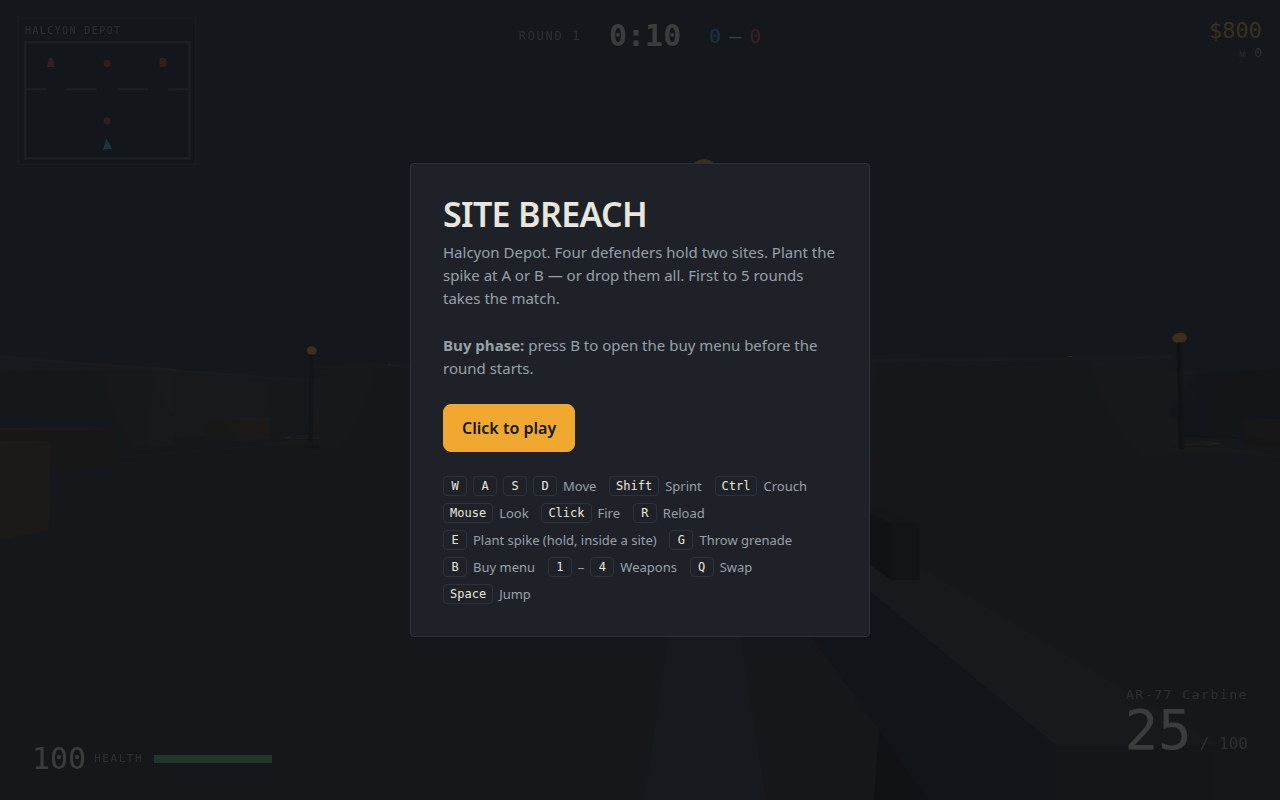
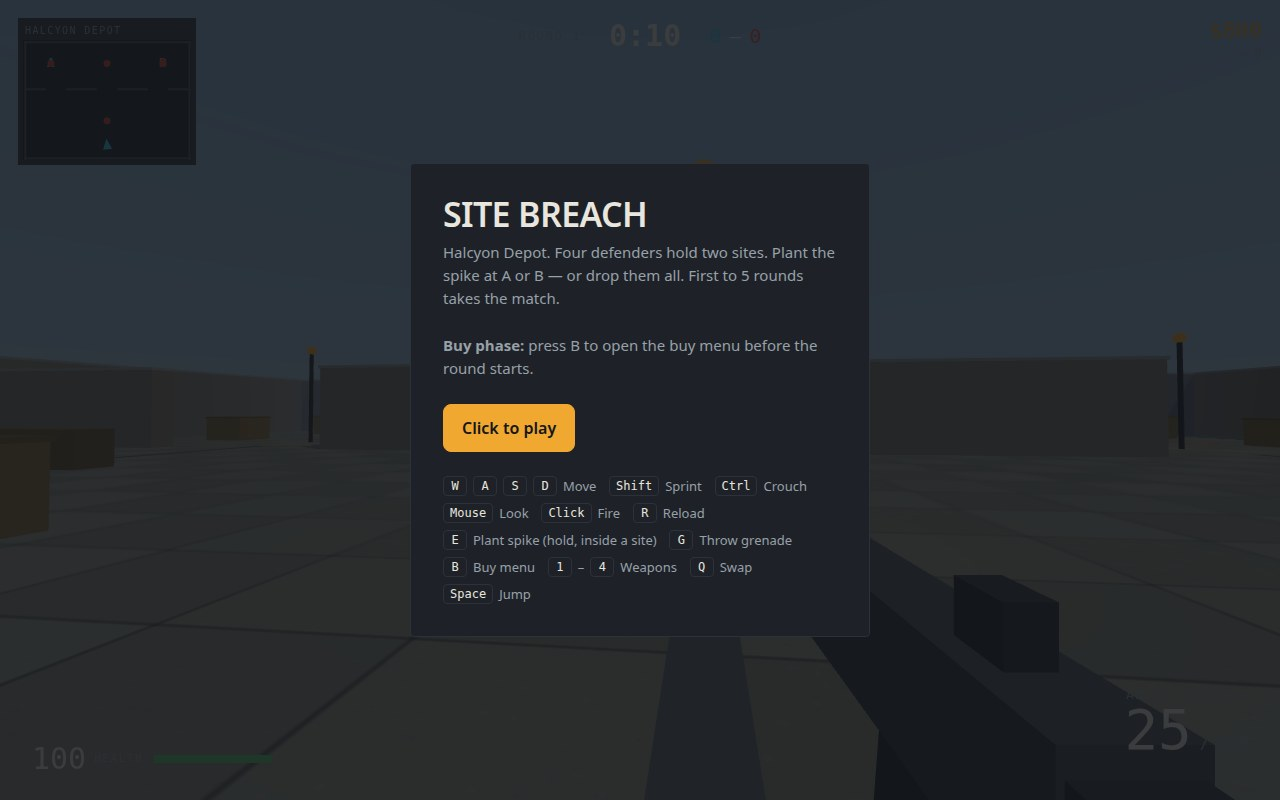
Visual polish: bright day sky, tiled ground, humanoid bots, detailed rifle

diff --git a/game/src/main.js b/game/src/main.js
@@ -30,11 +30,32 @@ document.getElementById('game').appendChild(renderer.domElement);
 const scene = new THREE.Scene();
 scene.background = new THREE.Color(PALETTE.sky);
 scene.fog = new THREE.Fog(PALETTE.fog, 26, 70);
+// Sky dome: a vertical day gradient generated at runtime (no external asset).
+{
+  const c = document.createElement('canvas');
+  c.width = 4;
+  c.height = 256;
+  const g = c.getContext('2d');
+  const grad = g.createLinearGradient(0, 0, 0, 256);
+  grad.addColorStop(0, '#5f9fd4');
+  grad.addColorStop(0.55, '#a8c8e0');
+  grad.addColorStop(0.78, '#e8dcc0');
+  grad.addColorStop(1, '#d8c8a8');
+  g.fillStyle = grad;
+  g.fillRect(0, 0, 4, 256);
+  const tex = new THREE.CanvasTexture(c);
+  tex.colorSpace = THREE.SRGBColorSpace;
+  const sky = new THREE.Mesh(
+    new THREE.SphereGeometry(120, 24, 16),
+    new THREE.MeshBasicMaterial({ map: tex, side: THREE.BackSide, fog: false }),
+  );
+  scene.add(sky);
+}
 const camera = new THREE.PerspectiveCamera(74, window.innerWidth / window.innerHeight, 0.05, 160);
 scene.add(camera);
 
-scene.add(new THREE.HemisphereLight(0x8fa3c0, 0x2a2419, 1.05));
-const sun = new THREE.DirectionalLight(0xffe0b0, 1.6);
+scene.add(new THREE.HemisphereLight(0xcfe4f5, 0x9a8f7a, 1.9));
+const sun = new THREE.DirectionalLight(0xfff1d6, 2.4);
 sun.position.set(18, 30, 12);
 sun.castShadow = true;
 sun.shadow.mapSize.set(1024, 1024);
@@ -79,24 +100,61 @@ let buyOpen = false;
 let shake = 0;
 let flash = 0;
 
-// ---- Viewmodel: a simple rifle the player carries ----
+// ---- Viewmodel: a detailed rifle the player carries ----
 const viewGun = new THREE.Group();
 {
-  const dark = new THREE.MeshLambertMaterial({ color: 0x22262c });
-  const mid = new THREE.MeshLambertMaterial({ color: 0x3a414b });
+  const dark = new THREE.MeshLambertMaterial({ color: 0x2c3138 });
+  const mid = new THREE.MeshLambertMaterial({ color: 0x4a525e });
+  const steel = new THREE.MeshLambertMaterial({ color: 0x6b7683 });
+  const amber = new THREE.MeshBasicMaterial({ color: PALETTE.accent });
   const receiver = new THREE.Mesh(new THREE.BoxGeometry(0.09, 0.13, 0.5), mid);
   viewGun.add(receiver);
-  const barrel = new THREE.Mesh(new THREE.CylinderGeometry(0.025, 0.025, 0.34, 8), dark);
+  // Handguard with ridges.
+  const guard = new THREE.Mesh(new THREE.BoxGeometry(0.1, 0.11, 0.3), dark);
+  guard.position.set(0, 0.01, -0.38);
+  viewGun.add(guard);
+  for (let i = 0; i < 3; i++) {
+    const ridge = new THREE.Mesh(new THREE.BoxGeometry(0.104, 0.02, 0.03), steel);
+    ridge.position.set(0, 0.07, -0.28 - i * 0.1);
+    viewGun.add(ridge);
+  }
+  const barrel = new THREE.Mesh(new THREE.CylinderGeometry(0.022, 0.022, 0.22, 8), steel);
   barrel.rotation.x = Math.PI / 2;
-  barrel.position.set(0, 0.02, -0.38);
+  barrel.position.set(0, 0.02, -0.62);
   viewGun.add(barrel);
-  const sight = new THREE.Mesh(new THREE.BoxGeometry(0.03, 0.06, 0.08), dark);
-  sight.position.set(0, 0.1, -0.05);
-  viewGun.add(sight);
+  const brake = new THREE.Mesh(new THREE.BoxGeometry(0.05, 0.05, 0.09), dark);
+  brake.position.set(0, 0.02, -0.76);
+  viewGun.add(brake);
+  // Front sight post with a glowing amber fibre tip.
+  const post = new THREE.Mesh(new THREE.BoxGeometry(0.02, 0.07, 0.02), dark);
+  post.position.set(0, 0.09, -0.5);
+  viewGun.add(post);
+  const fibre = new THREE.Mesh(new THREE.BoxGeometry(0.014, 0.014, 0.05), amber);
+  fibre.position.set(0, 0.13, -0.5);
+  viewGun.add(fibre);
+  // Rear sight.
+  const rear = new THREE.Mesh(new THREE.BoxGeometry(0.04, 0.05, 0.06), dark);
+  rear.position.set(0, 0.09, 0.14);
+  viewGun.add(rear);
+  // Stock, grip, trigger guard, magazine.
+  const stock = new THREE.Mesh(new THREE.BoxGeometry(0.08, 0.11, 0.22), dark);
+  stock.position.set(0, -0.01, 0.34);
+  viewGun.add(stock);
+  const grip = new THREE.Mesh(new THREE.BoxGeometry(0.06, 0.12, 0.08), dark);
+  grip.position.set(0, -0.11, 0.12);
+  grip.rotation.x = 0.3;
+  viewGun.add(grip);
+  const trigger = new THREE.Mesh(new THREE.BoxGeometry(0.02, 0.04, 0.12), steel);
+  trigger.position.set(0, -0.09, 0.16);
+  viewGun.add(trigger);
   const mag = new THREE.Mesh(new THREE.BoxGeometry(0.07, 0.16, 0.1), dark);
   mag.position.set(0, -0.12, 0.05);
   mag.rotation.x = 0.15;
   viewGun.add(mag);
+  // Charging handle on the right side.
+  const handle = new THREE.Mesh(new THREE.BoxGeometry(0.02, 0.03, 0.06), steel);
+  handle.position.set(0.055, 0.03, 0.05);
+  viewGun.add(handle);
   viewGun.position.set(0.28, -0.26, -0.55);
   camera.add(viewGun);
 }

diff --git a/game/src/world.js b/game/src/world.js
@@ -5,7 +5,7 @@
 // every edge was checked to run through open ground.
 import * as THREE from 'three';
 import { PALETTE } from './palette.js';
-import { segmentHitsRect } from './util.js';
+import { segmentHitsRect, mulberry32 } from './util.js';
 
 // Each collider is an axis-aligned box: centre (x, z), half extents (hw, hd),
 // height h. Walls taller than 1.5 m also block line of sight.
@@ -168,7 +168,46 @@ export function createWorld(scene) {
   const shootables = [];
   const lambert = (color) => new THREE.MeshLambertMaterial({ color });
 
-  const ground = new THREE.Mesh(new THREE.PlaneGeometry(66, 46), lambert(PALETTE.ground));
+  // Ground: a concrete tile texture generated at runtime (no external asset).
+  // 512 px canvas = 4x4 tiles; repeated so each tile is ~2 m on the floor.
+  const groundTex = (() => {
+    const c = document.createElement('canvas');
+    c.width = 512;
+    c.height = 512;
+    const g = c.getContext('2d');
+    g.fillStyle = '#8a8d84';
+    g.fillRect(0, 0, 512, 512);
+    const shades = ['#8f9289', '#85887f', '#93968d', '#82857c'];
+    for (let ty = 0; ty < 4; ty++) {
+      for (let tx = 0; tx < 4; tx++) {
+        g.fillStyle = shades[(tx + ty * 3) % 4];
+        g.fillRect(tx * 128 + 2, ty * 128 + 2, 124, 124);
+      }
+    }
+    // Speckles for a worn-concrete read (seeded, so every load looks the same).
+    const rnd = mulberry32(7);
+    for (let i = 0; i < 900; i++) {
+      g.fillStyle = rnd() < 0.5 ? 'rgba(0,0,0,0.06)' : 'rgba(255,255,255,0.05)';
+      g.fillRect(rnd() * 512, rnd() * 512, 2, 2);
+    }
+    // Tile seams.
+    g.strokeStyle = 'rgba(40,44,48,0.55)';
+    g.lineWidth = 3;
+    for (let i = 0; i <= 4; i++) {
+      g.beginPath(); g.moveTo(i * 128, 0); g.lineTo(i * 128, 512); g.stroke();
+      g.beginPath(); g.moveTo(0, i * 128); g.lineTo(512, i * 128); g.stroke();
+    }
+    const tex = new THREE.CanvasTexture(c);
+    tex.wrapS = THREE.RepeatWrapping;
+    tex.wrapT = THREE.RepeatWrapping;
+    tex.repeat.set(8, 6);
+    tex.colorSpace = THREE.SRGBColorSpace;
+    return tex;
+  })();
+  const ground = new THREE.Mesh(
+    new THREE.PlaneGeometry(66, 46),
+    new THREE.MeshLambertMaterial({ map: groundTex }),
+  );
   ground.rotation.x = -Math.PI / 2;
   ground.receiveShadow = true;
   scene.add(ground);
@@ -186,13 +225,18 @@ export function createWorld(scene) {
   const wallMat = lambert(PALETTE.wall);
   const wallDarkMat = lambert(PALETTE.wallDark);
   const wallTopMat = lambert(PALETTE.wallTop);
+  // Per-area tones: the north (site) half reads cool steel blue, the south
+  // (spawn) half warm sand — the map reads at a glance without moving a collider.
+  const wallNorthMat = lambert(0x7d8aa0);
+  const wallSouthMat = lambert(0x9a938a);
   const crateMat = lambert(PALETTE.crate);
   const crateDarkMat = lambert(PALETTE.crateDark);
   for (const c of COLLIDERS) {
     const isLow = c.h <= 1.2 && c.hw + c.hd <= 4 && !(c.hw >= 4 || c.hd >= 4);
     const isCrate = c.h === 1.2 && c.hw <= 1.2 && c.hd <= 1.2;
     const geo = new THREE.BoxGeometry(c.hw * 2, c.h, c.hd * 2);
-    const mesh = new THREE.Mesh(geo, isCrate ? crateMat : isLow ? crateDarkMat : wallMat);
+    const mat = isCrate ? crateMat : isLow ? crateDarkMat : (c.z < -4 ? wallNorthMat : wallSouthMat);
+    const mesh = new THREE.Mesh(geo, mat);
     mesh.position.set(c.x, c.h / 2, c.z);
     mesh.castShadow = c.h > 1.5;
     mesh.receiveShadow = true;
@@ -202,6 +246,11 @@ export function createWorld(scene) {
       const cap = new THREE.Mesh(new THREE.BoxGeometry(c.hw * 2 + 0.12, 0.12, c.hd * 2 + 0.12), wallTopMat);
       cap.position.set(c.x, c.h + 0.06, c.z);
       scene.add(cap);
+    } else if (isCrate) {
+      // Crates get a darker lid so they read as containers, not grey blocks.
+      const lid = new THREE.Mesh(new THREE.BoxGeometry(c.hw * 2 + 0.08, 0.08, c.hd * 2 + 0.08), crateDarkMat);
+      lid.position.set(c.x, c.h + 0.04, c.z);
+      scene.add(lid);
     }
   }
 

diff --git a/game/src/bots.js b/game/src/bots.js
@@ -27,14 +27,59 @@ function makeBotMesh(scene, name) {
   const group = new THREE.Group();
   const bodyMat = new THREE.MeshLambertMaterial({ color: PALETTE.enemy });
   const darkMat = new THREE.MeshLambertMaterial({ color: PALETTE.enemyDark });
-  const body = new THREE.Mesh(new THREE.CapsuleGeometry(0.32, 0.8, 6, 12), bodyMat);
-  body.position.y = 1.0;
+  const bootMat = new THREE.MeshLambertMaterial({ color: 0x2a1e16 });
+  // Torso: a shorter red capsule — the vest of the figure (hit mesh, part 'body').
+  const body = new THREE.Mesh(new THREE.CapsuleGeometry(0.30, 0.55, 6, 12), bodyMat);
+  body.position.y = 1.15;
   body.castShadow = true;
   group.add(body);
+  // Chest plate (dark vest front) and belt.
+  const plate = new THREE.Mesh(new THREE.BoxGeometry(0.46, 0.38, 0.08), darkMat);
+  plate.position.set(0, 1.22, 0.28);
+  group.add(plate);
+  const belt = new THREE.Mesh(new THREE.BoxGeometry(0.5, 0.1, 0.34), darkMat);
+  belt.position.set(0, 0.82, 0);
+  group.add(belt);
+  // Legs: two dark trouser legs. They are hit meshes too (part 'body') and
+  // meet at the centre line, so low shots behave as they did against the old
+  // full-length capsule.
+  const legGeo = new THREE.BoxGeometry(0.22, 0.8, 0.2);
+  const legL = new THREE.Mesh(legGeo, darkMat);
+  legL.position.set(-0.11, 0.4, 0);
+  legL.castShadow = true;
+  group.add(legL);
+  const legR = new THREE.Mesh(legGeo, darkMat);
+  legR.position.set(0.11, 0.4, 0);
+  legR.castShadow = true;
+  group.add(legR);
+  const bootGeo = new THREE.BoxGeometry(0.2, 0.1, 0.3);
+  const bootL = new THREE.Mesh(bootGeo, bootMat);
+  bootL.position.set(-0.11, 0.05, 0.03);
+  group.add(bootL);
+  const bootR = new THREE.Mesh(bootGeo, bootMat);
+  bootR.position.set(0.11, 0.05, 0.03);
+  group.add(bootR);
+  // Arms: red sleeves angled slightly forward; the right one holds the gun.
+  const armGeo = new THREE.BoxGeometry(0.13, 0.6, 0.16);
+  const armL = new THREE.Mesh(armGeo, bodyMat);
+  armL.position.set(-0.38, 1.08, 0.05);
+  armL.rotation.x = -0.25;
+  group.add(armL);
+  const armR = new THREE.Mesh(armGeo, bodyMat);
+  armR.position.set(0.38, 1.08, 0.12);
+  armR.rotation.x = -0.55;
+  group.add(armR);
+  // Head: dark face sphere, red helmet dome, amber visor.
   const head = new THREE.Mesh(new THREE.SphereGeometry(0.26, 14, 10), darkMat);
   head.position.y = 1.66;
   head.castShadow = true;
   group.add(head);
+  const helmet = new THREE.Mesh(
+    new THREE.SphereGeometry(0.28, 14, 10, 0, Math.PI * 2, 0, Math.PI / 2),
+    bodyMat,
+  );
+  helmet.position.y = 1.68;
+  group.add(helmet);
   const visor = new THREE.Mesh(new THREE.BoxGeometry(0.3, 0.09, 0.1), new THREE.MeshBasicMaterial({ color: PALETTE.accent }));
   visor.position.set(0, 1.68, 0.22);
   group.add(visor);
@@ -48,7 +93,7 @@ function makeBotMesh(scene, name) {
   padR.position.x = 0.36;
   group.add(padR);
   scene.add(group);
-  return { group, body, head, gun };
+  return { group, body, head, gun, legL, legR };
 }
 
 export function createBots(scene, seed = 1) {
@@ -87,7 +132,9 @@ export function createBots(scene, seed = 1) {
     };
     mesh.body.userData = { bot, part: 'body' };
     mesh.head.userData = { bot, part: 'head' };
-    bot.hitMeshes = [mesh.body, mesh.head];
+    mesh.legL.userData = { bot, part: 'body' };
+    mesh.legR.userData = { bot, part: 'body' };
+    bot.hitMeshes = [mesh.body, mesh.head, mesh.legL, mesh.legR];
     bot.mesh.group.position.set(home[0], 0, home[1]);
     bots.push(bot);
   }

diff --git a/game/src/palette.js b/game/src/palette.js
@@ -1,21 +1,21 @@
-// Palette: one chosen look for the whole game — dusk depot, sodium lamps, cold steel.
+// Palette: one chosen look for the whole game — bright day depot, sodium lamps, cold steel.
 // Every colour in the game comes from here, so the scene reads at a glance.
 export const PALETTE = {
-  sky: 0x1a2230,
-  fog: 0x1a2230,
-  ground: 0x2a2f36,
-  groundLine: 0x232830,
-  wall: 0x4a525e,
-  wallDark: 0x353c46,
-  wallTop: 0x5d6673,
-  crate: 0x6b5a34,
-  crateDark: 0x54452a,
+  sky: 0x9ec4e2,
+  fog: 0xb9cfe0,
+  ground: 0x8a8d84,
+  groundLine: 0x5a6068,
+  wall: 0x8b96a3,
+  wallDark: 0x6b7683,
+  wallTop: 0xb4bec8,
+  crate: 0x9a7d44,
+  crateDark: 0x7a6435,
   accent: 0xf0a830, // sodium amber — lamps, site markers, HUD accent
   accentDim: 0x8a6420,
   siteA: 0x35c4e8, // cyan hologram for Site A
   siteB: 0xe85d35, // orange hologram for Site B
-  enemy: 0xd23c2e, // defender red
-  enemyDark: 0x7e1f16,
+  enemy: 0xe0402f, // defender red
+  enemyDark: 0x8f2418,
   friendly: 0x35c4e8,
   tracer: 0xffd27a,
   muzzle: 0xffe9b0,
